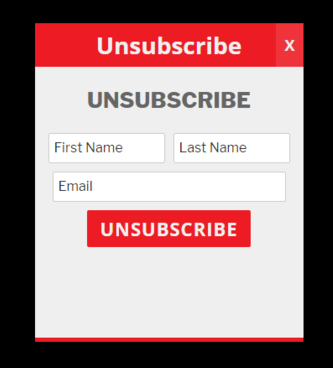
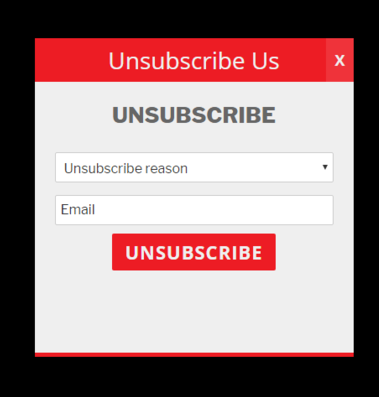
* Changed position of admin-functions file * New update 1.5.1 * Changed link in main file for admin-functions for bug fix * Changed readme for new update * Spell check in importer file * New unsubscribe image

diff --git a/libs/classes/splite-importer.php b/libs/classes/splite-importer.php
@@ -63,7 +63,7 @@ function splite_import_cf7_demo($args=array()) {
 		case 'Basic Enquiry': 
 			$form = '		
 				<div class="col-md-6" style="overflow: hidden;">
-					<h2 style="text-align:center;line-height:1.5em;margin-bottom:20px;">Basic <strong>Equiry</strong></h2>
+					<h2 style="text-align:center;line-height:1.5em;margin-bottom:20px;">Basic <strong>Enquiry</strong></h2>
 					<p style="float: left;width: 100%; padding-right: 5px;">[text* your-name placeholder "Full name"]</p>
 					<p style="float: left;width: 50%; padding-right: 5px">[email* your-email placeholder "Email"]</p>
 					<p style="float: left;width: 50%; padding-left: 5px">[tel* your-phone placeholder "Phone"]</p>
@@ -110,8 +110,7 @@ function splite_import_cf7_demo($args=array()) {
 			$form = '
 				<div class="col-md-6" style="overflow: hidden;">
 					<h2 style="text-align:center;line-height:1.5em;margin-bottom:20px;"><strong>UNSUBSCRIBE</strong></h2>
-					<p style="float: left;width: 50%;padding-right: 5px">[text* first-name placeholder "First Name"]</p>
-					<p style="float: left;width: 50%;padding-left: 5px">[text* last-name placeholder "Last Name"]</p>
+					<p style="float: left;width: 100%;padding: 5px;">[select* unsubscribe-reason "Unsubscribe Reason" "Too many emails" "Content irrelevant" "Didn’t know you were subscribing " "Too much or too little content"]</p>
 					<p style="float: left;width: 100%;padding: 5px;">[email* your-email placeholder "Email"]</p>
 					<p style="clear: both;display: block;">[submit "UNSUBSCRIBE"]</p>
 				</div>';
@@ -119,9 +118,8 @@ function splite_import_cf7_demo($args=array()) {
 			$mail['body'] = 'Hello admin
 
 			A customer has unsubscribed to your updates.
-			<strong>Name:</strong> [first-name][last-name]
 			<strong>Email:</strong> [your-email]
-
+			<strong>Reason: </strong>[unsubscribe-reason]
 			The admin is advised to check the users profile.';
 
 			break;	

diff --git a/libs/admin-functions.php b/libs/admin-functions.php
@@ -12,7 +12,7 @@ function splite_addmenu_page_in_admin() {
 
 	global $splite_hook; 	
 	$splite_hook = array();
-	$icon = SPLITE_PLUGIN_URL . '/libs/admin/img/menu_icon.png';
+	$icon = SPLITE_PLUGIN_URL . '/admin/img/menu_icon.png';
 	
 	$sppro_hook[] = add_submenu_page( 'slick-options', 'Import Demos', 'Import Demos', 'manage_options', 'import-demos', 'splite_import_demos' );
 	$hook = "load-".$sppro_hook[0];
@@ -31,6 +31,9 @@ function splite_addmenu_page_in_admin() {
  */
 function splite_import_demos() { ?>
 	<style>
+		p.notice {
+			padding: 10px;
+		}
 		.section {
 			overflow: hidden; 
 			margin-bottom: 30px; 
@@ -132,7 +135,7 @@ function splite_import_demos() { ?>
 	
 	<div class="wrap">
 		<h1>One-click Import for Contact Form 7</h1>
-		<p>Choose a form and click import button, this will create a <a href="<?php echo admin_url('/admin.php?page=wpcf7/'); ?>">Contact Form 7</a> form with the desired layout. Once imported, you may want to chane the To Email and Mail Body for the form.</p>
+		<p class="notice notice-success">Choose a form and click import button, this will create a <a href="<?php echo admin_url('/admin.php?page=wpcf7/'); ?>">Contact Form 7</a> form with the desired layout. Once imported, you may want to chane the To Email and Mail Body for the form.</p>
 		<div class="import-holder">
 			<?php $demos = array(
 				'basic-enquiry' => 'Basic Enquiry', 

diff --git a/slick-popup.php b/slick-popup.php
@@ -5,12 +5,12 @@ Plugin URI:   http://www.omaksolutions.com
 Description:  A lightweight plugin that converts a Contact Form 7 form into a customizable pop-up form which is slick, beautiful and responsive to different screen-sizes.
 Author URI:   http://www.omaksolutions.com 
 Author:       Om Ak Solutions 
-Version:      1.4.4
+Version:      1.5.1
 Text Domain: sp-pro-txt-domain
 */
 
 
-define( 'SPLITE_VERSION', '1.4.4' );
+define( 'SPLITE_VERSION', '1.5.1' );
 
 define( 'SPLITE_REQUIRED_WP_VERSION', '3.0.1' );
 
@@ -29,7 +29,7 @@ define( 'SPLITE_PLUGIN_IMG_URL', SPLITE_PLUGIN_URL . '/libs/admin/img' );
 define ( 'SPLITE_DEBUG', FALSE );
 
 require_once( SPLITE_PLUGIN_DIR . '/libs/admin/codestar/cs-framework.php' );
-require_once( SPLITE_PLUGIN_DIR . '/libs/admin/admin-functions.php' );
+require_once( SPLITE_PLUGIN_DIR . '/libs/admin-functions.php' );
 require_once( SPLITE_PLUGIN_DIR . '/libs/extras.php' );
 require_once( SPLITE_PLUGIN_DIR . '/libs/classes/splite-importer.php' );
 
@@ -58,7 +58,7 @@ function splite_on_activate(){
 //add_action( 'redux/options/splite_opts/register', 'splite_update_db_check' );
 add_action( 'redux/loaded', 'splite_update_db_check' );
 function splite_update_db_check() {
-    if ( SPLITE_VERSION >= '1.3' ) {
+    if ( SPLITE_VERSION >= '1.4' ) {
         spplite_update_db(); 
     }
 }
